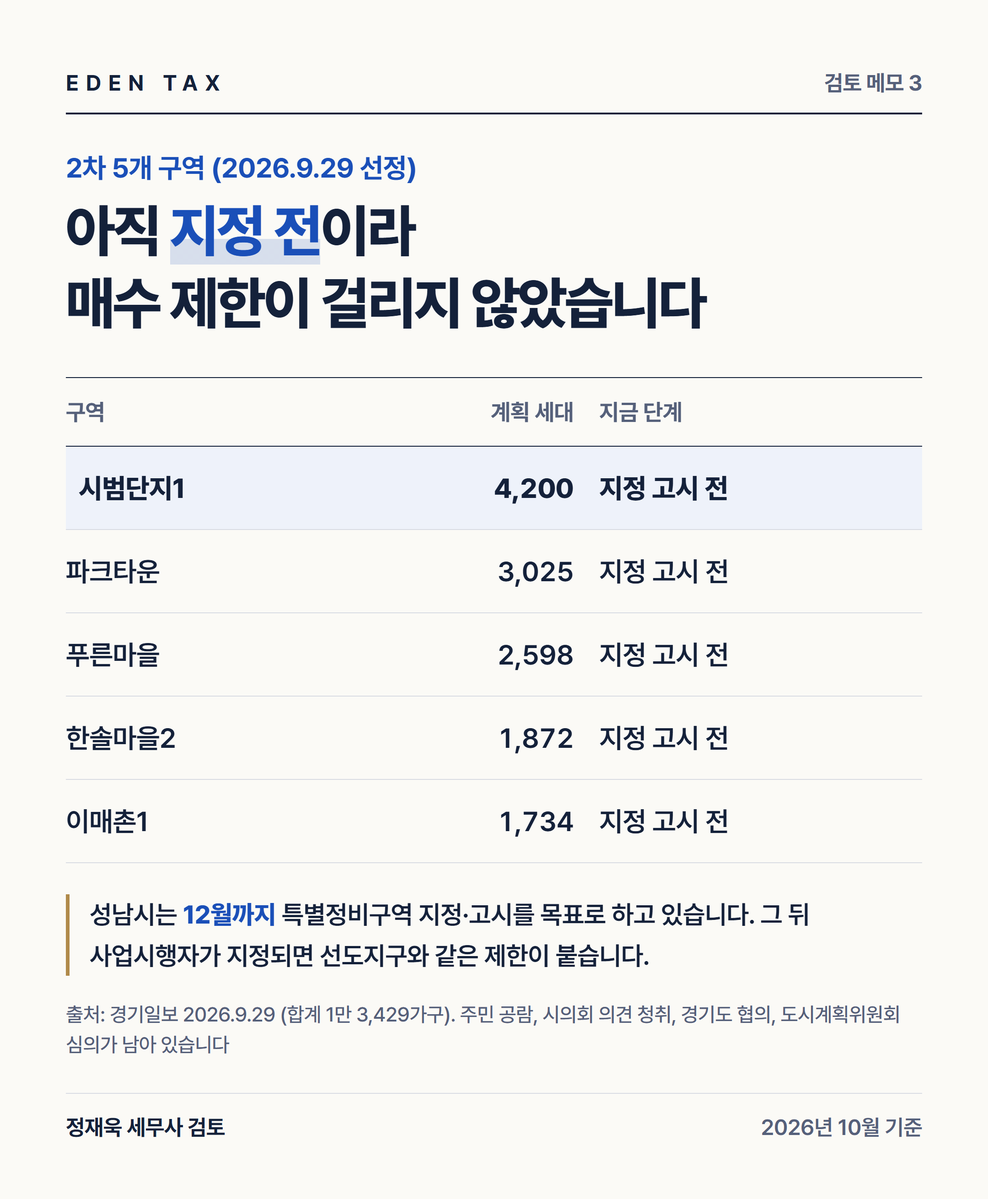
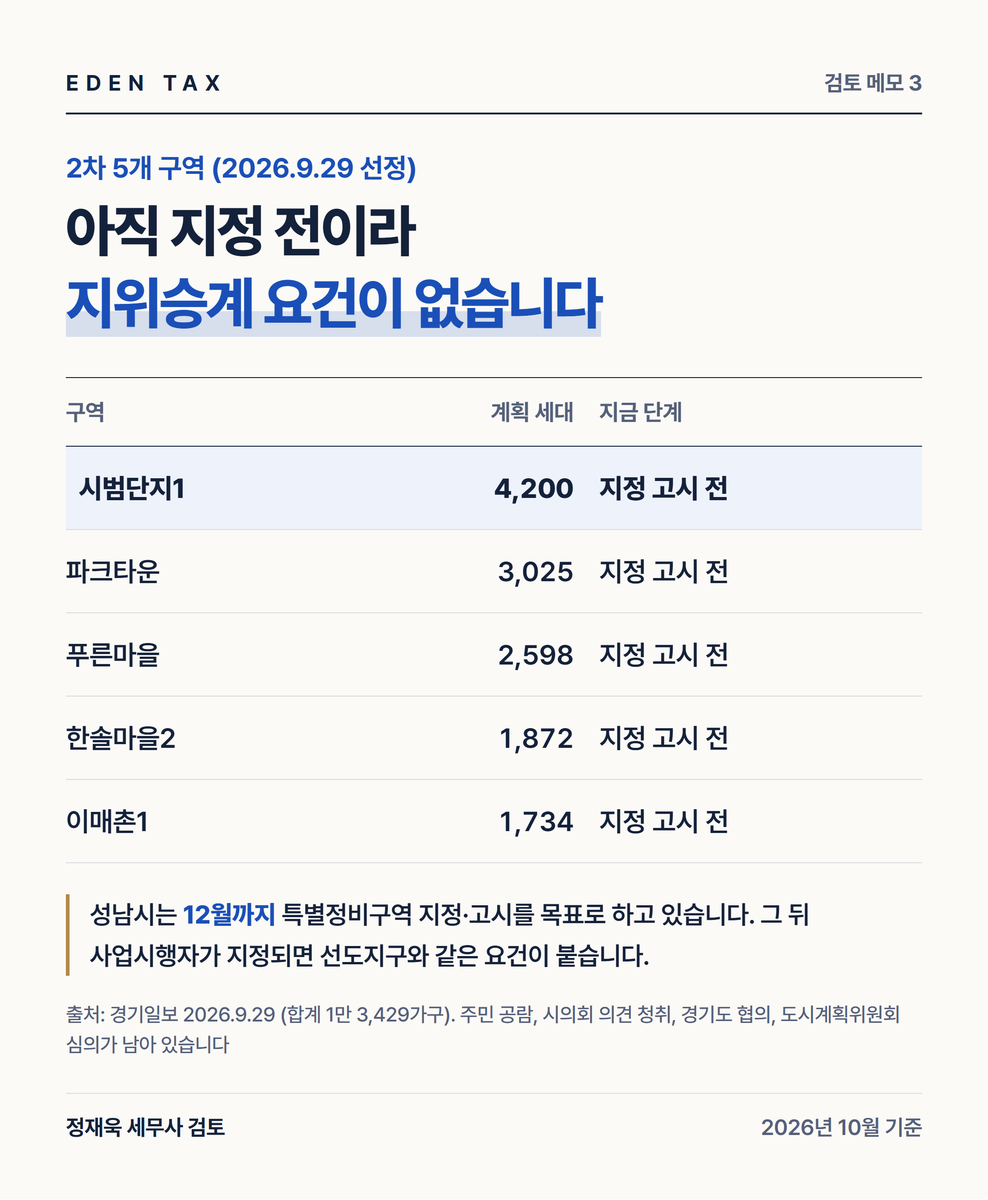
분당 칼럼 제목·틀 수정 (지위승계 확인 포인트)
'매수 시 조합원 불가/가능' 표기를 '매물 확인: 지위승계 요건 확인/요건 없음'으로
바꾸고, 예외 요건을 갖춘 매물이 실제로 거래된다는 점을 본문에 명시.
썸네일·제목도 '분당 9개 구역, 지금 어디까지 왔나'로 교체.

Changed region(s): [[0.062, 0.1545, 0.7134, 0.278], [0.4963, 0.7723, 0.5273, 0.8032]]

diff --git a/column/bundang-reconstruction-overview/index.html b/column/bundang-reconstruction-overview/index.html
@@ -3,19 +3,19 @@
 <head>
   <meta charset="UTF-8">
   <meta name="viewport" content="width=device-width, initial-scale=1.0">
-  <title>분당 재건축 단지 총정리: 선도지구 4곳과 2차 5곳, 매수 전에 확인할 날짜 (2026년 10월) | 에덴택스 칼럼</title>
-  <meta name="description" content="분당 선도지구 4곳(시범단지·샛별마을·목련마을·양지마을)과 2026년 9월 선정된 2차 5개 구역의 진행 단계와 세대수를 정리하고, 사업시행자 지정 고시일을 기준으로 조합원 지위가 넘어가는지 갈리는 구조와 취득세·양도세를 함께 봤습니다.">
+  <title>분당 재건축 단지 총정리: 선도지구 4곳과 2차 5곳, 구역별 단계와 지위승계 확인 포인트 (2026년 10월) | 에덴택스 칼럼</title>
+  <meta name="description" content="분당 선도지구 4곳(시범단지·샛별마을·목련마을·양지마을)과 2026년 9월 선정된 2차 5개 구역의 진행 단계와 세대수를 한 표로 정리하고, 사업시행자 지정이 끝난 구역에서 조합원 지위가 승계되는 매물인지 확인하는 순서와 취득세·양도세를 함께 봤습니다.">
   <link rel="canonical" href="https://www.edentax.kr/column/bundang-reconstruction-overview/">
   <meta property="og:type" content="article">
-  <meta property="og:title" content="분당 재건축 단지 총정리: 선도지구 4곳과 2차 5곳, 매수 전에 확인할 날짜 (2026년 10월) | 에덴택스 칼럼">
-  <meta property="og:description" content="분당 선도지구 4곳(시범단지·샛별마을·목련마을·양지마을)과 2026년 9월 선정된 2차 5개 구역의 진행 단계와 세대수를 정리하고, 사업시행자 지정 고시일을 기준으로 조합원 지위가 넘어가는지 갈리는 구조와 취득세·양도세를 함께 봤습니다.">
+  <meta property="og:title" content="분당 재건축 단지 총정리: 선도지구 4곳과 2차 5곳, 구역별 단계와 지위승계 확인 포인트 (2026년 10월) | 에덴택스 칼럼">
+  <meta property="og:description" content="분당 선도지구 4곳(시범단지·샛별마을·목련마을·양지마을)과 2026년 9월 선정된 2차 5개 구역의 진행 단계와 세대수를 한 표로 정리하고, 사업시행자 지정이 끝난 구역에서 조합원 지위가 승계되는 매물인지 확인하는 순서와 취득세·양도세를 함께 봤습니다.">
   <meta property="og:url" content="https://www.edentax.kr/column/bundang-reconstruction-overview/">
   <meta property="og:image" content="https://www.edentax.kr/column/bundang-reconstruction-overview/thumbnail.png">
   <meta name="theme-color" content="#0F1B33">
   <link rel="preconnect" href="https://cdn.jsdelivr.net">
   <link rel="stylesheet" href="https://cdn.jsdelivr.net/gh/orioncactus/pretendard@v1.3.9/dist/web/variable/pretendardvariable-dynamic-subset.min.css">
   <link rel="stylesheet" href="/assets/site.css?v=20261026b">
-  <script type="application/ld+json">[{"@context": "https://schema.org", "@type": "Article", "headline": "분당 재건축 단지 총정리: 선도지구 4곳과 2차 5곳, 매수 전에 확인할 날짜 (2026년 10월)", "description": "분당 선도지구 4곳(시범단지·샛별마을·목련마을·양지마을)과 2026년 9월 선정된 2차 5개 구역의 진행 단계와 세대수를 정리하고, 사업시행자 지정 고시일을 기준으로 조합원 지위가 넘어가는지 갈리는 구조와 취득세·양도세를 함께 봤습니다.", "datePublished": "2026-10-28", "dateModified": "2026-10-28", "image": "https://www.edentax.kr/column/bundang-reconstruction-overview/thumbnail.png", "author": {"@type": "Person", "name": "정재욱 세무사", "jobTitle": "세무사", "description": "국세청 출신 세무사"}, "publisher": {"@type": "Organization", "name": "에덴택스", "url": "https://www.edentax.kr"}, "mainEntityOfPage": "https://www.edentax.kr/column/bundang-reconstruction-overview/"}, {"@context": "https://schema.org", "@type": "FAQPage", "mainEntity": [{"@type": "Question", "name": "분당 선도지구 아파트를 지금 사면 재건축 조합원이 되나요?", "acceptedAnswer": {"@type": "Answer", "text": "원칙적으로 되지 않습니다. 분당은 투기과열지구이고 선도지구 4곳은 2026년 6~7월에 사업시행자 지정이 고시됐습니다. 도시정비법 제39조 제2항은 투기과열지구 재건축사업에서 조합설립인가(신탁업자나 LH가 사업시행자인 경우에는 그 지정) 후 건축물이나 토지를 양수한 사람은 조합원이 될 수 없다고 정합니다. 조합원이 되지 못하면 현금청산 대상이 됩니다."}}, {"@type": "Question", "name": "예외는 없나요?", "acceptedAnswer": {"@type": "Answer", "text": "있습니다. 상속·이혼으로 인한 양도, 세대원 전원의 근무·취학·질병치료·결혼에 따른 이전, 세대원 전원 해외 이주, 그리고 1세대 1주택자로서 양도하는 주택의 소유기간 10년·거주기간 5년 이상인 경우 등입니다(같은 조 제2항 단서, 시행령 제37조). 양도인이 요건을 갖춰야 하므로 매수 전에 확인해야 합니다."}}, {"@type": "Question", "name": "2차 5개 구역은 지금 사도 되나요?", "acceptedAnswer": {"@type": "Answer", "text": "2026년 10월 현재 특별정비구역 지정 고시 전이라 조합원 지위 제한은 아직 붙지 않았습니다. 다만 성남시는 12월까지 지정·고시를 목표로 하고 있고, 이후 사업시행자가 지정되면 선도지구와 같은 제한이 적용됩니다. 분당은 토지거래허가구역이기도 해서 매수 시 실거주 의무가 따릅니다."}}]}]</script>
+  <script type="application/ld+json">[{"@context": "https://schema.org", "@type": "Article", "headline": "분당 재건축 단지 총정리: 선도지구 4곳과 2차 5곳, 구역별 단계와 지위승계 확인 포인트 (2026년 10월)", "description": "분당 선도지구 4곳(시범단지·샛별마을·목련마을·양지마을)과 2026년 9월 선정된 2차 5개 구역의 진행 단계와 세대수를 한 표로 정리하고, 사업시행자 지정이 끝난 구역에서 조합원 지위가 승계되는 매물인지 확인하는 순서와 취득세·양도세를 함께 봤습니다.", "datePublished": "2026-10-28", "dateModified": "2026-10-28", "image": "https://www.edentax.kr/column/bundang-reconstruction-overview/thumbnail.png", "author": {"@type": "Person", "name": "정재욱 세무사", "jobTitle": "세무사", "description": "국세청 출신 세무사"}, "publisher": {"@type": "Organization", "name": "에덴택스", "url": "https://www.edentax.kr"}, "mainEntityOfPage": "https://www.edentax.kr/column/bundang-reconstruction-overview/"}, {"@context": "https://schema.org", "@type": "FAQPage", "mainEntity": [{"@type": "Question", "name": "분당 선도지구 아파트를 사면 재건축 조합원이 되나요?", "acceptedAnswer": {"@type": "Answer", "text": "매물에 따라 다릅니다. 분당은 투기과열지구이고 선도지구 4곳은 2026년 6~7월에 사업시행자 지정이 고시됐습니다. 도시정비법 제39조 제2항은 그 시점 뒤에 양수한 사람은 원칙적으로 조합원이 될 수 없다고 하면서, 양도인이 같은 항 단서에 해당하면 양수인이 조합원 지위를 이어받는다고 정합니다. 그래서 현장에서는 이 요건을 갖춘 매물이 따로 거래됩니다."}}, {"@type": "Question", "name": "지위가 승계되는 매물인지 어떻게 확인하나요?", "acceptedAnswer": {"@type": "Answer", "text": "요건을 갖춰야 하는 쪽은 매도인입니다. 가장 흔한 경우가 1세대 1주택자로서 양도하는 주택의 소유기간 10년·거주기간 5년 이상인 매물입니다(시행령 제37조 제1항). 거주기간은 주민등록표로 따지고 배우자나 직계존비속이 산 기간을 합산합니다. 등기부에는 거주기간이 나오지 않으므로 주민등록초본으로 확인하고, 승계되지 않으면 계약을 해제할 수 있다는 특약을 두는 것이 안전합니다."}}, {"@type": "Question", "name": "2차 5개 구역은 지금 사도 되나요?", "acceptedAnswer": {"@type": "Answer", "text": "2026년 10월 현재 특별정비구역 지정 고시 전이라 조합원 지위 제한은 아직 붙지 않았습니다. 다만 성남시는 12월까지 지정·고시를 목표로 하고 있고, 이후 사업시행자가 지정되면 선도지구와 같은 제한이 적용됩니다. 분당은 토지거래허가구역이기도 해서 매수 시 실거주 의무가 따릅니다."}}]}]</script>
 </head>
 <body data-nav="column">
 <!-- LAYOUT:HEADER -->
@@ -96,7 +96,7 @@
   <div class="wrap article-hero-inner">
     <nav class="crumbs" aria-label="현재 위치"><a href="/">홈</a><svg class="ic ic-xs"><use href="#i-chevron-right"/></svg><a href="/column/">칼럼</a><svg class="ic ic-xs"><use href="#i-chevron-right"/></svg><span aria-current="page">부동산</span></nav>
     <span class="col-cat col-cat-dark" data-anim="up">부동산</span>
-    <h1 data-anim="up" data-delay="1">분당 재건축 단지 총정리: 선도지구 4곳과 2차 5곳, 매수 전에 확인할 날짜 (2026년 10월)</h1>
+    <h1 data-anim="up" data-delay="1">분당 재건축 단지 총정리: 선도지구 4곳과 2차 5곳, 구역별 단계와 지위승계 확인 포인트 (2026년 10월)</h1>
     <div class="article-meta" data-anim="up" data-delay="2">
       <img src="/images/person.webp?v=20261026b" alt="" width="44" height="44">
       <span><strong>국세청 출신 정재욱 세무사</strong><small><time datetime="2026-10-28">2026.10.28</time> · 2026년 10월 기준</small></span>
@@ -107,9 +107,9 @@
 <section class="article-wrap">
   <div class="wrap article-grid">
     <article class="article">
-      <div class="summary-box" data-anim="up"><p class="summary-title"><svg class="ic"><use href="#i-list-checks"/></svg>핵심 요약</p><ul><li><svg class="ic ic-sm"><use href="#i-check"/></svg><span>선도지구 4곳 모두 2026년 6~7월 사업시행자 지정 고시 완료</span></li><li><svg class="ic ic-sm"><use href="#i-check"/></svg><span>투기과열지구에서는 그 고시일 뒤 매수하면 원칙적으로 조합원이 될 수 없음(도시정비법 제39조 제2항)</span></li><li><svg class="ic ic-sm"><use href="#i-check"/></svg><span>예외는 1세대 1주택자의 10년 보유·5년 거주 등 법에 적힌 경우로 한정</span></li><li><svg class="ic ic-sm"><use href="#i-check"/></svg><span>2차 5개 구역 1만 3,429가구는 2026년 10월 현재 지정 고시 전</span></li><li><svg class="ic ic-sm"><use href="#i-check"/></svg><span>성남 분당구는 2025년 10월 16일부터 투기과열지구·조정대상지역, 토지거래허가구역</span></li></ul></div>
+      <div class="summary-box" data-anim="up"><p class="summary-title"><svg class="ic"><use href="#i-list-checks"/></svg>핵심 요약</p><ul><li><svg class="ic ic-sm"><use href="#i-check"/></svg><span>선도지구 4곳 모두 2026년 6~7월 사업시행자 지정 고시 완료</span></li><li><svg class="ic ic-sm"><use href="#i-check"/></svg><span>그 뒤 매수는 양도인이 법에 적힌 요건을 갖춘 매물이라야 조합원 지위가 승계됨(도시정비법 제39조 제2항)</span></li><li><svg class="ic ic-sm"><use href="#i-check"/></svg><span>가장 흔한 요건은 1세대 1주택자의 소유 10년·거주 5년(시행령 제37조) — 거주기간은 등기부에 나오지 않음</span></li><li><svg class="ic ic-sm"><use href="#i-check"/></svg><span>2차 5개 구역 1만 3,429가구는 2026년 10월 현재 지정 고시 전이라 이 요건이 없음</span></li><li><svg class="ic ic-sm"><use href="#i-check"/></svg><span>성남 분당구는 2025년 10월 16일부터 투기과열지구·조정대상지역, 아파트는 토지거래허가 대상</span></li></ul></div>
       <div class="article-body">
-<p>분당 재건축은 2024년 11월 선도지구 선정으로 시작해 2026년 7월에 네 곳 모두 사업시행자 지정을 마쳤습니다. 2026년 9월에는 2차 다섯 곳이 추가로 뽑혔습니다. 같은 '분당 아파트'라도 구역마다 단계가 다르고, 단계가 다르면 사고팔 때의 결과도 달라집니다. 아홉 개 구역을 한 표에 놓고 보겠습니다. (2026년 10월 28일 기준, 세대수와 일정은 성남시 고시 관련 보도 기준)</p>
+<p>분당 재건축은 2024년 11월 선도지구 선정으로 시작해 2026년 7월에 네 곳 모두 사업시행자 지정을 마쳤습니다. 2026년 9월에는 2차 다섯 곳이 추가로 뽑혔습니다. 같은 '분당 아파트'라도 구역마다 단계가 다르고, 단계가 다르면 매물을 볼 때 확인할 것도 달라집니다. 아홉 개 구역을 한 표에 놓고 보겠습니다. (2026년 10월 28일 기준, 세대수와 일정은 성남시 고시 관련 보도 기준)</p>
 <h2>아홉 개 구역, 지금 어디에 있나</h2>
 <div class="table-wrap"><table>
 <thead>
@@ -118,7 +118,7 @@
 <th>단지</th>
 <th>계획 세대</th>
 <th>지금 단계</th>
-<th>매수 시 조합원</th>
+<th>매물 확인</th>
 </tr>
 </thead>
 <tbody>
@@ -127,73 +127,73 @@
 <td>라이프·동성·우방·삼부 + 빌라</td>
 <td>—</td>
 <td>사업시행자 지정(2026.6.26)</td>
-<td><strong>불가</strong></td>
+<td>지위승계 요건 확인</td>
 </tr>
 <tr>
 <td>시범단지(23·S6)</td>
 <td>현대·우성 + 빌라</td>
 <td>—</td>
 <td>사업시행자 지정(2026.6.29)</td>
-<td><strong>불가</strong></td>
+<td>지위승계 요건 확인</td>
 </tr>
 <tr>
 <td>목련마을(6·S3)</td>
 <td>빌라 결합</td>
 <td>2,475</td>
 <td>사업시행자 지정(2026.6.29)</td>
-<td><strong>불가</strong></td>
+<td>지위승계 요건 확인</td>
 </tr>
 <tr>
 <td>양지마을(32)</td>
 <td>금호1·3, 한양1·2, 청구2</td>
 <td>6,839</td>
 <td>사업시행자 지정(2026.7.27)</td>
-<td><strong>불가</strong></td>
+<td>지위승계 요건 확인</td>
 </tr>
 <tr>
 <td>시범단지1</td>
 <td>—</td>
 <td>4,200</td>
 <td>2차 선정, 지정 고시 전</td>
-<td>가능</td>
+<td>요건 없음</td>
 </tr>
 <tr>
 <td>파크타운</td>
 <td>—</td>
 <td>3,025</td>
 <td>2차 선정, 지정 고시 전</td>
-<td>가능</td>
+<td>요건 없음</td>
 </tr>
 <tr>
 <td>푸른마을</td>
 <td>—</td>
 <td>2,598</td>
 <td>2차 선정, 지정 고시 전</td>
-<td>가능</td>
+<td>요건 없음</td>
 </tr>
 <tr>
 <td>한솔마을2</td>
 <td>—</td>
 <td>1,872</td>
 <td>2차 선정, 지정 고시 전</td>
-<td>가능</td>
+<td>요건 없음</td>
 </tr>
 <tr>
 <td>이매촌1</td>
 <td>—</td>
 <td>1,734</td>
 <td>2차 선정, 지정 고시 전</td>
-<td>가능</td>
+<td>요건 없음</td>
 </tr>
 </tbody>
 </table></div>
 <p>선도지구 가운데 시범·샛별·목련 세 곳은 기존 7,663세대가 1만 3,574세대로 늘어납니다. 구역별로 쪼갠 세대수는 보도마다 달라 비워 두었습니다. 2차 다섯 곳은 합쳐서 1만 3,429가구이고, 성남시는 12월까지 특별정비구역 지정·고시를 목표로 하고 있습니다.</p>
-<p>표의 '매수 시 조합원' 칸이 이 글의 핵심입니다.</p>
-<h2>왜 선도지구 네 곳은 '불가'인가</h2>
+<p>표의 '매물 확인' 칸이 이 글에서 짚으려는 부분입니다.</p>
+<h2>선도지구 네 곳은 왜 요건을 따로 보는가</h2>
 <p><img loading="lazy" alt="분당 재건축이 지나온 자리" src="summary_1.png" /></p>
 <p>분당구는 2025년 10월 16일부터 투기과열지구입니다. 투기과열지구에서 재건축사업을 할 때 <strong>조합설립인가 후</strong>에 그 구역의 건축물이나 토지를 양수한 사람은 조합원이 될 수 없습니다(도시 및 주거환경정비법 제39조 제2항).</p>
 <p>분당 선도지구는 조합을 만들지 않았습니다. 샛별마을·시범단지·양지마을은 신탁사가, 목련마을은 LH가 사업시행자입니다. 이런 경우에는 조합설립인가 대신 <strong>사업시행자 지정</strong>이 기준 시점이 됩니다(같은 조 제1항). 성남시도 사업시행자 지정을 고시하면서 "고시 이후 건축물이나 토지를 취득한 사람은 분양신청을 할 수 있는 조합원 자격을 가질 수 없다"고 안내했습니다.</p>
-<p>조합원이 되지 못하면 분양신청을 할 수 없고 현금청산 대상이 됩니다. 사업시행자가 손실보상을 하지만(같은 조 제3항), 새 아파트를 받으려고 산 사람에게는 결과가 전혀 다릅니다.</p>
+<p>다만 같은 항 단서에 예외가 있어, 양도인이 거기 해당하면 양수인이 조합원 지위를 그대로 이어받습니다. 현장에서 거래되는 선도지구 매물은 대부분 이 요건을 갖춘 것들입니다. 반대로 요건을 못 갖춘 매물을 사면 분양신청을 할 수 없고 현금청산 대상이 됩니다(같은 조 제3항).</p>
 <p><img loading="lazy" alt="선도지구 4곳" src="summary_2.png" /></p>
 <h2>예외는 파는 사람이 갖춰야 합니다</h2>
 <p>여기서 가장 많이 어긋나는 지점입니다. 예외 요건을 갖춰야 하는 쪽은 매수인이 아니라 <strong>양도인</strong>입니다. 법은 "양도인이 다음 각 호의 어느 하나에 해당하는 경우 그 양도인으로부터 양수한 자는 그러하지 아니하다"고 적고 있습니다.</p>
@@ -206,24 +206,24 @@
 <li><strong>투기과열지구 지정 전에 계약했는가.</strong> 지정일부터 60일 안에 부동산 거래신고를 마친 경우입니다(시행령 제37조 제3항 제6호). 분당은 2025년 10월 16일에 지정됐으니 지금 새로 사는 경우에는 해당하지 않습니다.</li>
 </ol>
 <p>등기부에는 거주기간이 나오지 않습니다. 주민등록초본과 보유기간을 서류로 확인하고, 조합원 지위가 승계되지 않으면 계약을 해제할 수 있다는 내용을 특약에 넣어 두는 편이 안전합니다.</p>
-<h2>2차 다섯 곳은 아직 열려 있습니다</h2>
+<h2>2차 다섯 곳은 아직 이 요건이 없습니다</h2>
 <p><img loading="lazy" alt="2차 5개 구역" src="summary_3.png" /></p>
-<p>2026년 10월 현재 2차 다섯 곳은 특별정비구역 지정 고시 전이라 이 제한이 붙지 않았습니다. 다만 주민 공람과 공고, 시의회 의견 청취, 경기도 협의, 도시계획위원회 심의가 남아 있고 성남시는 12월까지 고시를 목표로 하고 있습니다. 고시 뒤 사업시행자가 지정되면 선도지구와 같은 상태가 됩니다.</p>
+<p>2026년 10월 현재 2차 다섯 곳은 특별정비구역 지정 고시 전이라 이 요건이 붙지 않았습니다. 다만 주민 공람과 공고, 시의회 의견 청취, 경기도 협의, 도시계획위원회 심의가 남아 있고 성남시는 12월까지 고시를 목표로 하고 있습니다. 고시 뒤 사업시행자가 지정되면 선도지구와 같은 상태가 됩니다.</p>
 <p>지금 사는 경우에도 분당구 아파트는 토지거래허가구역입니다(2025년 10월 20일부터 허가 의무). 계약 전에 허가를 받아야 하고 실거주 의무가 따릅니다. 전세를 끼고 사는 방식은 쓸 수 없습니다.</p>
 <h2>세금은 날짜로 갈립니다</h2>
 <p>취득세는 분당구가 조정대상지역이라 2주택이 되면 8%, 3주택 이상이면 12%가 원칙입니다(지방세법 제13조의2).</p>
 <p>양도세에서는 기존 집과 새로 산 집이 모두 조정대상지역이면 일시적 2주택 처분기한이 2년입니다(소득세법 시행령 제155조 제1항 제1호). 2026년 10월 1일부터 적용되고 있어, 서울에서 분당으로 갈아타는 경우가 여기에 들어갑니다.</p>
 <p>관리처분계획인가가 나면 보유하던 주택은 입주권으로 바뀝니다. 비과세 판단과 장기보유특별공제가 그 앞뒤로 달라집니다. 선도지구 네 곳은 2028년 상반기 관리처분이 예정돼 있으므로, 그 전에 팔 것인지 입주권으로 넘길 것인지를 미리 계산해 두셔야 합니다.</p>
-<h2>사시기 전에 매도인 서류부터</h2>
+<h2>매물 설명서보다 매도인 서류를</h2>
 <blockquote>
-<p>분당은 단지별로 날짜가 다릅니다. 같은 분당 아파트라도 사업시행자 지정이 끝난 구역과 아직 지정 전인 구역은 성격이 전혀 다른 물건입니다. 선도지구 네 곳을 보고 계시다면 매도인의 보유기간과 거주기간을 먼저 확인하시고, 2차 구역을 보고 계시다면 고시 일정과 토지거래허가 실거주 의무를 자금 계획에 넣어 두시기 바랍니다. 계약서를 쓰고 나서 바꾸기 어려운 부분입니다.</p>
+<p>분당은 구역마다 날짜가 다릅니다. 중개사무소에서 지위승계가 되는 매물을 추려 주더라도, 요건을 채워야 하는 쪽은 파는 분이고 확인은 서류로 남겨야 합니다. 선도지구 네 곳을 보고 계시다면 매도인의 보유기간과 거주기간을 주민등록초본으로 확인하시고, 2차 구역을 보고 계시다면 고시 일정과 토지거래허가 실거주 의무를 자금 계획에 넣어 두시기 바랍니다. 계약서를 쓰고 나서 바꾸기 어려운 부분입니다.</p>
 <p>— 정재욱 세무사</p>
 </blockquote>
 <p>에덴택스는 국세청 출신 세무사가 양도·상속·증여·취득까지 부동산 세금을 직접 봅니다. 보유 주택 현황, 매수 예정 단지의 구역 정보, 자금 계획을 가지고 오시면 취득세와 기존 집 처분 순서, 입주권 전환 시점까지 함께 검토해 드립니다.</p>
 <p>※ 2026년 10월 28일 현재 도시 및 주거환경정비법·같은 법 시행령, 지방세법, 소득세법 시행령 원문과 국토교통부 10·15 주택시장 안정화 대책, 성남시 고시 관련 언론 보도를 기준으로 작성했습니다. 구역별 세대수와 일정은 보도 기준이며 확정 수치는 성남시 고시문으로 확인해야 합니다.</p>
 <p>※ 본 글은 세무·부동산 분석을 위한 참고자료로, 개별 세무상담이나 신고 검토를 대체하지 않으며 투자·청약을 권유하지 않습니다. 세금 신고 및 투자 결정 전 전문가의 검토를 받으시기 바라며, 이를 활용한 판단과 결과의 책임은 이용자에게 있습니다.</p>
       </div>
-      <section class="faq"><h2>자주 묻는 질문</h2><details><summary>분당 선도지구 아파트를 지금 사면 재건축 조합원이 되나요?<svg class="ic ic-sm"><use href="#i-plus"/></svg></summary><p>원칙적으로 되지 않습니다. 분당은 투기과열지구이고 선도지구 4곳은 2026년 6~7월에 사업시행자 지정이 고시됐습니다. 도시정비법 제39조 제2항은 투기과열지구 재건축사업에서 조합설립인가(신탁업자나 LH가 사업시행자인 경우에는 그 지정) 후 건축물이나 토지를 양수한 사람은 조합원이 될 수 없다고 정합니다. 조합원이 되지 못하면 현금청산 대상이 됩니다.</p></details><details><summary>예외는 없나요?<svg class="ic ic-sm"><use href="#i-plus"/></svg></summary><p>있습니다. 상속·이혼으로 인한 양도, 세대원 전원의 근무·취학·질병치료·결혼에 따른 이전, 세대원 전원 해외 이주, 그리고 1세대 1주택자로서 양도하는 주택의 소유기간 10년·거주기간 5년 이상인 경우 등입니다(같은 조 제2항 단서, 시행령 제37조). 양도인이 요건을 갖춰야 하므로 매수 전에 확인해야 합니다.</p></details><details><summary>2차 5개 구역은 지금 사도 되나요?<svg class="ic ic-sm"><use href="#i-plus"/></svg></summary><p>2026년 10월 현재 특별정비구역 지정 고시 전이라 조합원 지위 제한은 아직 붙지 않았습니다. 다만 성남시는 12월까지 지정·고시를 목표로 하고 있고, 이후 사업시행자가 지정되면 선도지구와 같은 제한이 적용됩니다. 분당은 토지거래허가구역이기도 해서 매수 시 실거주 의무가 따릅니다.</p></details></section>
+      <section class="faq"><h2>자주 묻는 질문</h2><details><summary>분당 선도지구 아파트를 사면 재건축 조합원이 되나요?<svg class="ic ic-sm"><use href="#i-plus"/></svg></summary><p>매물에 따라 다릅니다. 분당은 투기과열지구이고 선도지구 4곳은 2026년 6~7월에 사업시행자 지정이 고시됐습니다. 도시정비법 제39조 제2항은 그 시점 뒤에 양수한 사람은 원칙적으로 조합원이 될 수 없다고 하면서, 양도인이 같은 항 단서에 해당하면 양수인이 조합원 지위를 이어받는다고 정합니다. 그래서 현장에서는 이 요건을 갖춘 매물이 따로 거래됩니다.</p></details><details><summary>지위가 승계되는 매물인지 어떻게 확인하나요?<svg class="ic ic-sm"><use href="#i-plus"/></svg></summary><p>요건을 갖춰야 하는 쪽은 매도인입니다. 가장 흔한 경우가 1세대 1주택자로서 양도하는 주택의 소유기간 10년·거주기간 5년 이상인 매물입니다(시행령 제37조 제1항). 거주기간은 주민등록표로 따지고 배우자나 직계존비속이 산 기간을 합산합니다. 등기부에는 거주기간이 나오지 않으므로 주민등록초본으로 확인하고, 승계되지 않으면 계약을 해제할 수 있다는 특약을 두는 것이 안전합니다.</p></details><details><summary>2차 5개 구역은 지금 사도 되나요?<svg class="ic ic-sm"><use href="#i-plus"/></svg></summary><p>2026년 10월 현재 특별정비구역 지정 고시 전이라 조합원 지위 제한은 아직 붙지 않았습니다. 다만 성남시는 12월까지 지정·고시를 목표로 하고 있고, 이후 사업시행자가 지정되면 선도지구와 같은 제한이 적용됩니다. 분당은 토지거래허가구역이기도 해서 매수 시 실거주 의무가 따릅니다.</p></details></section>
       <div class="article-banner">
         <img src="banner.png" alt="에덴택스 상담 안내 - 국세청 출신 정재욱 세무사, 전화 010-4892-0921, 카카오톡 edentax" loading="lazy">
         <div class="article-banner-links">

diff --git a/column/dh-banpo-124-score-lottery/index.html b/column/dh-banpo-124-score-lottery/index.html
@@ -250,11 +250,11 @@
     <div class="sec-head sec-head-row"><div><p class="kicker">MORE</p><h2>다른 칼럼</h2></div><a class="link-more" href="/column/">칼럼 전체 보기<svg class="ic ic-sm"><use href="#i-arrow-right"/></svg></a></div>
     <div class="col-tiles">
 <a class="col-card col-tile" href="/column/bundang-reconstruction-overview/" data-anim="up" data-cat="부동산">
-  <div class="col-thumb"><img src="/column/bundang-reconstruction-overview/thumbnail.png" alt="분당 재건축 단지 총정리: 선도지구 4곳과 2차 5곳, 매수 전에 확인할 날짜 (2026년 10월)" loading="lazy" width="640" height="640"></div>
+  <div class="col-thumb"><img src="/column/bundang-reconstruction-overview/thumb.webp" alt="분당 재건축 단지 총정리: 선도지구 4곳과 2차 5곳, 구역별 단계와 지위승계 확인 포인트 (2026년 10월)" loading="lazy" width="640" height="640"></div>
   <div class="col-body">
     <span class="col-cat">부동산</span>
-    <h3>분당 재건축 단지 총정리: 선도지구 4곳과 2차 5곳, 매수 전에 확인할 날짜 (2026년 10월)</h3>
-    <p>분당 선도지구 4곳(시범단지·샛별마을·목련마을·양지마을)과 2026년 9월 선정된 2차 5개 구역의 진행 단계와 세대수를 정리하고, 사업시행자 지정 고시일을 기준으로 조합원 지위가 넘어가는지 갈리는 구조와 취득세·양도세를 함께 봤습니다.</p>
+    <h3>분당 재건축 단지 총정리: 선도지구 4곳과 2차 5곳, 구역별 단계와 지위승계 확인 포인트 (2026년 10월)</h3>
+    <p>분당 선도지구 4곳(시범단지·샛별마을·목련마을·양지마을)과 2026년 9월 선정된 2차 5개 구역의 진행 단계와 세대수를 한 표로 정리하고, 사업시행자 지정이 끝난 구역에서 조합원 지위가 승계되는 매물인지 확인하는 순서와 취득세·양도세를 함께 봤습니다.</p>
     <div class="col-foot"><time datetime="2026-10-28">2026.10.28</time><span class="go">읽어 보기<svg class="ic ic-sm"><use href="#i-arrow-right"/></svg></span></div>
   </div>
 </a>

diff --git a/column/acmer-dongtan-subscription/index.html b/column/acmer-dongtan-subscription/index.html
@@ -214,11 +214,11 @@
   </div>
 </a>
 <a class="col-card col-tile" href="/column/bundang-reconstruction-overview/" data-anim="up" data-delay="1" data-cat="부동산">
-  <div class="col-thumb"><img src="/column/bundang-reconstruction-overview/thumb.webp" alt="분당 재건축 단지 총정리: 선도지구 4곳과 2차 5곳, 매수 전에 확인할 날짜 (2026년 10월)" loading="lazy" width="640" height="640"></div>
+  <div class="col-thumb"><img src="/column/bundang-reconstruction-overview/thumb.webp" alt="분당 재건축 단지 총정리: 선도지구 4곳과 2차 5곳, 구역별 단계와 지위승계 확인 포인트 (2026년 10월)" loading="lazy" width="640" height="640"></div>
   <div class="col-body">
     <span class="col-cat">부동산</span>
-    <h3>분당 재건축 단지 총정리: 선도지구 4곳과 2차 5곳, 매수 전에 확인할 날짜 (2026년 10월)</h3>
-    <p>분당 선도지구 4곳(시범단지·샛별마을·목련마을·양지마을)과 2026년 9월 선정된 2차 5개 구역의 진행 단계와 세대수를 정리하고, 사업시행자 지정 고시일을 기준으로 조합원 지위가 넘어가는지 갈리는 구조와 취득세·양도세를 함께 봤습니다.</p>
+    <h3>분당 재건축 단지 총정리: 선도지구 4곳과 2차 5곳, 구역별 단계와 지위승계 확인 포인트 (2026년 10월)</h3>
+    <p>분당 선도지구 4곳(시범단지·샛별마을·목련마을·양지마을)과 2026년 9월 선정된 2차 5개 구역의 진행 단계와 세대수를 한 표로 정리하고, 사업시행자 지정이 끝난 구역에서 조합원 지위가 승계되는 매물인지 확인하는 순서와 취득세·양도세를 함께 봤습니다.</p>
     <div class="col-foot"><time datetime="2026-10-28">2026.10.28</time><span class="go">읽어 보기<svg class="ic ic-sm"><use href="#i-arrow-right"/></svg></span></div>
   </div>
 </a>

diff --git a/column/dh-banpo-124-subscription/index.html b/column/dh-banpo-124-subscription/index.html
@@ -263,11 +263,11 @@
   </div>
 </a>
 <a class="col-card col-tile" href="/column/bundang-reconstruction-overview/" data-anim="up" data-delay="1" data-cat="부동산">
-  <div class="col-thumb"><img src="/column/bundang-reconstruction-overview/thumb.webp" alt="분당 재건축 단지 총정리: 선도지구 4곳과 2차 5곳, 매수 전에 확인할 날짜 (2026년 10월)" loading="lazy" width="640" height="640"></div>
+  <div class="col-thumb"><img src="/column/bundang-reconstruction-overview/thumb.webp" alt="분당 재건축 단지 총정리: 선도지구 4곳과 2차 5곳, 구역별 단계와 지위승계 확인 포인트 (2026년 10월)" loading="lazy" width="640" height="640"></div>
   <div class="col-body">
     <span class="col-cat">부동산</span>
-    <h3>분당 재건축 단지 총정리: 선도지구 4곳과 2차 5곳, 매수 전에 확인할 날짜 (2026년 10월)</h3>
-    <p>분당 선도지구 4곳(시범단지·샛별마을·목련마을·양지마을)과 2026년 9월 선정된 2차 5개 구역의 진행 단계와 세대수를 정리하고, 사업시행자 지정 고시일을 기준으로 조합원 지위가 넘어가는지 갈리는 구조와 취득세·양도세를 함께 봤습니다.</p>
+    <h3>분당 재건축 단지 총정리: 선도지구 4곳과 2차 5곳, 구역별 단계와 지위승계 확인 포인트 (2026년 10월)</h3>
+    <p>분당 선도지구 4곳(시범단지·샛별마을·목련마을·양지마을)과 2026년 9월 선정된 2차 5개 구역의 진행 단계와 세대수를 한 표로 정리하고, 사업시행자 지정이 끝난 구역에서 조합원 지위가 승계되는 매물인지 확인하는 순서와 취득세·양도세를 함께 봤습니다.</p>
     <div class="col-foot"><time datetime="2026-10-28">2026.10.28</time><span class="go">읽어 보기<svg class="ic ic-sm"><use href="#i-arrow-right"/></svg></span></div>
   </div>
 </a>

diff --git a/column/funding-plan-gift-tax-filing/index.html b/column/funding-plan-gift-tax-filing/index.html
@@ -228,11 +228,11 @@
   </div>
 </a>
 <a class="col-card col-tile" href="/column/bundang-reconstruction-overview/" data-anim="up" data-delay="1" data-cat="부동산">
-  <div class="col-thumb"><img src="/column/bundang-reconstruction-overview/thumb.webp" alt="분당 재건축 단지 총정리: 선도지구 4곳과 2차 5곳, 매수 전에 확인할 날짜 (2026년 10월)" loading="lazy" width="640" height="640"></div>
+  <div class="col-thumb"><img src="/column/bundang-reconstruction-overview/thumb.webp" alt="분당 재건축 단지 총정리: 선도지구 4곳과 2차 5곳, 구역별 단계와 지위승계 확인 포인트 (2026년 10월)" loading="lazy" width="640" height="640"></div>
   <div class="col-body">
     <span class="col-cat">부동산</span>
-    <h3>분당 재건축 단지 총정리: 선도지구 4곳과 2차 5곳, 매수 전에 확인할 날짜 (2026년 10월)</h3>
-    <p>분당 선도지구 4곳(시범단지·샛별마을·목련마을·양지마을)과 2026년 9월 선정된 2차 5개 구역의 진행 단계와 세대수를 정리하고, 사업시행자 지정 고시일을 기준으로 조합원 지위가 넘어가는지 갈리는 구조와 취득세·양도세를 함께 봤습니다.</p>
+    <h3>분당 재건축 단지 총정리: 선도지구 4곳과 2차 5곳, 구역별 단계와 지위승계 확인 포인트 (2026년 10월)</h3>
+    <p>분당 선도지구 4곳(시범단지·샛별마을·목련마을·양지마을)과 2026년 9월 선정된 2차 5개 구역의 진행 단계와 세대수를 한 표로 정리하고, 사업시행자 지정이 끝난 구역에서 조합원 지위가 승계되는 매물인지 확인하는 순서와 취득세·양도세를 함께 봤습니다.</p>
     <div class="col-foot"><time datetime="2026-10-28">2026.10.28</time><span class="go">읽어 보기<svg class="ic ic-sm"><use href="#i-arrow-right"/></svg></span></div>
   </div>
 </a>

diff --git a/column/gwanggyo-centreville-subscription/index.html b/column/gwanggyo-centreville-subscription/index.html
@@ -219,11 +219,11 @@
   </div>
 </a>
 <a class="col-card col-tile" href="/column/bundang-reconstruction-overview/" data-anim="up" data-delay="1" data-cat="부동산">
-  <div class="col-thumb"><img src="/column/bundang-reconstruction-overview/thumb.webp" alt="분당 재건축 단지 총정리: 선도지구 4곳과 2차 5곳, 매수 전에 확인할 날짜 (2026년 10월)" loading="lazy" width="640" height="640"></div>
+  <div class="col-thumb"><img src="/column/bundang-reconstruction-overview/thumb.webp" alt="분당 재건축 단지 총정리: 선도지구 4곳과 2차 5곳, 구역별 단계와 지위승계 확인 포인트 (2026년 10월)" loading="lazy" width="640" height="640"></div>
   <div class="col-body">
     <span class="col-cat">부동산</span>
-    <h3>분당 재건축 단지 총정리: 선도지구 4곳과 2차 5곳, 매수 전에 확인할 날짜 (2026년 10월)</h3>
-    <p>분당 선도지구 4곳(시범단지·샛별마을·목련마을·양지마을)과 2026년 9월 선정된 2차 5개 구역의 진행 단계와 세대수를 정리하고, 사업시행자 지정 고시일을 기준으로 조합원 지위가 넘어가는지 갈리는 구조와 취득세·양도세를 함께 봤습니다.</p>
+    <h3>분당 재건축 단지 총정리: 선도지구 4곳과 2차 5곳, 구역별 단계와 지위승계 확인 포인트 (2026년 10월)</h3>
+    <p>분당 선도지구 4곳(시범단지·샛별마을·목련마을·양지마을)과 2026년 9월 선정된 2차 5개 구역의 진행 단계와 세대수를 한 표로 정리하고, 사업시행자 지정이 끝난 구역에서 조합원 지위가 승계되는 매물인지 확인하는 순서와 취득세·양도세를 함께 봤습니다.</p>
     <div class="col-foot"><time datetime="2026-10-28">2026.10.28</time><span class="go">읽어 보기<svg class="ic ic-sm"><use href="#i-arrow-right"/></svg></span></div>
   </div>
 </a>

diff --git a/column/home-purchase-funding-plan/index.html b/column/home-purchase-funding-plan/index.html
@@ -267,11 +267,11 @@
   </div>
 </a>
 <a class="col-card col-tile" href="/column/bundang-reconstruction-overview/" data-anim="up" data-delay="1" data-cat="부동산">
-  <div class="col-thumb"><img src="/column/bundang-reconstruction-overview/thumb.webp" alt="분당 재건축 단지 총정리: 선도지구 4곳과 2차 5곳, 매수 전에 확인할 날짜 (2026년 10월)" loading="lazy" width="640" height="640"></div>
+  <div class="col-thumb"><img src="/column/bundang-reconstruction-overview/thumb.webp" alt="분당 재건축 단지 총정리: 선도지구 4곳과 2차 5곳, 구역별 단계와 지위승계 확인 포인트 (2026년 10월)" loading="lazy" width="640" height="640"></div>
   <div class="col-body">
     <span class="col-cat">부동산</span>
-    <h3>분당 재건축 단지 총정리: 선도지구 4곳과 2차 5곳, 매수 전에 확인할 날짜 (2026년 10월)</h3>
-    <p>분당 선도지구 4곳(시범단지·샛별마을·목련마을·양지마을)과 2026년 9월 선정된 2차 5개 구역의 진행 단계와 세대수를 정리하고, 사업시행자 지정 고시일을 기준으로 조합원 지위가 넘어가는지 갈리는 구조와 취득세·양도세를 함께 봤습니다.</p>
+    <h3>분당 재건축 단지 총정리: 선도지구 4곳과 2차 5곳, 구역별 단계와 지위승계 확인 포인트 (2026년 10월)</h3>
+    <p>분당 선도지구 4곳(시범단지·샛별마을·목련마을·양지마을)과 2026년 9월 선정된 2차 5개 구역의 진행 단계와 세대수를 한 표로 정리하고, 사업시행자 지정이 끝난 구역에서 조합원 지위가 승계되는 매물인지 확인하는 순서와 취득세·양도세를 함께 봤습니다.</p>
     <div class="col-foot"><time datetime="2026-10-28">2026.10.28</time><span class="go">읽어 보기<svg class="ic ic-sm"><use href="#i-arrow-right"/></svg></span></div>
   </div>
 </a>

diff --git a/column/index.html b/column/index.html
@@ -115,11 +115,11 @@
   </div>
 </a>
 <a class="col-card col-tile" href="/column/bundang-reconstruction-overview/" data-anim="up" data-delay="1" data-cat="부동산">
-  <div class="col-thumb"><img src="/column/bundang-reconstruction-overview/thumb.webp" alt="분당 재건축 단지 총정리: 선도지구 4곳과 2차 5곳, 매수 전에 확인할 날짜 (2026년 10월)" loading="lazy" width="640" height="640"></div>
+  <div class="col-thumb"><img src="/column/bundang-reconstruction-overview/thumb.webp" alt="분당 재건축 단지 총정리: 선도지구 4곳과 2차 5곳, 구역별 단계와 지위승계 확인 포인트 (2026년 10월)" loading="lazy" width="640" height="640"></div>
   <div class="col-body">
     <span class="col-cat">부동산</span>
-    <h3>분당 재건축 단지 총정리: 선도지구 4곳과 2차 5곳, 매수 전에 확인할 날짜 (2026년 10월)</h3>
-    <p>분당 선도지구 4곳(시범단지·샛별마을·목련마을·양지마을)과 2026년 9월 선정된 2차 5개 구역의 진행 단계와 세대수를 정리하고, 사업시행자 지정 고시일을 기준으로 조합원 지위가 넘어가는지 갈리는 구조와 취득세·양도세를 함께 봤습니다.</p>
+    <h3>분당 재건축 단지 총정리: 선도지구 4곳과 2차 5곳, 구역별 단계와 지위승계 확인 포인트 (2026년 10월)</h3>
+    <p>분당 선도지구 4곳(시범단지·샛별마을·목련마을·양지마을)과 2026년 9월 선정된 2차 5개 구역의 진행 단계와 세대수를 한 표로 정리하고, 사업시행자 지정이 끝난 구역에서 조합원 지위가 승계되는 매물인지 확인하는 순서와 취득세·양도세를 함께 봤습니다.</p>
     <div class="col-foot"><time datetime="2026-10-28">2026.10.28</time><span class="go">읽어 보기<svg class="ic ic-sm"><use href="#i-arrow-right"/></svg></span></div>
   </div>
 </a>

diff --git a/column/jongbu-tax-joint-ownership-2027/index.html b/column/jongbu-tax-joint-ownership-2027/index.html
@@ -234,11 +234,11 @@
   </div>
 </a>
 <a class="col-card col-tile" href="/column/bundang-reconstruction-overview/" data-anim="up" data-delay="1" data-cat="부동산">
-  <div class="col-thumb"><img src="/column/bundang-reconstruction-overview/thumb.webp" alt="분당 재건축 단지 총정리: 선도지구 4곳과 2차 5곳, 매수 전에 확인할 날짜 (2026년 10월)" loading="lazy" width="640" height="640"></div>
+  <div class="col-thumb"><img src="/column/bundang-reconstruction-overview/thumb.webp" alt="분당 재건축 단지 총정리: 선도지구 4곳과 2차 5곳, 구역별 단계와 지위승계 확인 포인트 (2026년 10월)" loading="lazy" width="640" height="640"></div>
   <div class="col-body">
     <span class="col-cat">부동산</span>
-    <h3>분당 재건축 단지 총정리: 선도지구 4곳과 2차 5곳, 매수 전에 확인할 날짜 (2026년 10월)</h3>
-    <p>분당 선도지구 4곳(시범단지·샛별마을·목련마을·양지마을)과 2026년 9월 선정된 2차 5개 구역의 진행 단계와 세대수를 정리하고, 사업시행자 지정 고시일을 기준으로 조합원 지위가 넘어가는지 갈리는 구조와 취득세·양도세를 함께 봤습니다.</p>
+    <h3>분당 재건축 단지 총정리: 선도지구 4곳과 2차 5곳, 구역별 단계와 지위승계 확인 포인트 (2026년 10월)</h3>
+    <p>분당 선도지구 4곳(시범단지·샛별마을·목련마을·양지마을)과 2026년 9월 선정된 2차 5개 구역의 진행 단계와 세대수를 한 표로 정리하고, 사업시행자 지정이 끝난 구역에서 조합원 지위가 승계되는 매물인지 확인하는 순서와 취득세·양도세를 함께 봤습니다.</p>
     <div class="col-foot"><time datetime="2026-10-28">2026.10.28</time><span class="go">읽어 보기<svg class="ic ic-sm"><use href="#i-arrow-right"/></svg></span></div>
   </div>
 </a>

diff --git a/column/mu-sunwi-subscription-guide/index.html b/column/mu-sunwi-subscription-guide/index.html
@@ -214,11 +214,11 @@
   </div>
 </a>
 <a class="col-card col-tile" href="/column/bundang-reconstruction-overview/" data-anim="up" data-delay="1" data-cat="부동산">
-  <div class="col-thumb"><img src="/column/bundang-reconstruction-overview/thumb.webp" alt="분당 재건축 단지 총정리: 선도지구 4곳과 2차 5곳, 매수 전에 확인할 날짜 (2026년 10월)" loading="lazy" width="640" height="640"></div>
+  <div class="col-thumb"><img src="/column/bundang-reconstruction-overview/thumb.webp" alt="분당 재건축 단지 총정리: 선도지구 4곳과 2차 5곳, 구역별 단계와 지위승계 확인 포인트 (2026년 10월)" loading="lazy" width="640" height="640"></div>
   <div class="col-body">
     <span class="col-cat">부동산</span>
-    <h3>분당 재건축 단지 총정리: 선도지구 4곳과 2차 5곳, 매수 전에 확인할 날짜 (2026년 10월)</h3>
-    <p>분당 선도지구 4곳(시범단지·샛별마을·목련마을·양지마을)과 2026년 9월 선정된 2차 5개 구역의 진행 단계와 세대수를 정리하고, 사업시행자 지정 고시일을 기준으로 조합원 지위가 넘어가는지 갈리는 구조와 취득세·양도세를 함께 봤습니다.</p>
+    <h3>분당 재건축 단지 총정리: 선도지구 4곳과 2차 5곳, 구역별 단계와 지위승계 확인 포인트 (2026년 10월)</h3>
+    <p>분당 선도지구 4곳(시범단지·샛별마을·목련마을·양지마을)과 2026년 9월 선정된 2차 5개 구역의 진행 단계와 세대수를 한 표로 정리하고, 사업시행자 지정이 끝난 구역에서 조합원 지위가 승계되는 매물인지 확인하는 순서와 취득세·양도세를 함께 봤습니다.</p>
     <div class="col-foot"><time datetime="2026-10-28">2026.10.28</time><span class="go">읽어 보기<svg class="ic ic-sm"><use href="#i-arrow-right"/></svg></span></div>
   </div>
 </a>

diff --git a/column/redevelopment-reconstruction-terms-tax/index.html b/column/redevelopment-reconstruction-terms-tax/index.html
@@ -273,11 +273,11 @@
   </div>
 </a>
 <a class="col-card col-tile" href="/column/bundang-reconstruction-overview/" data-anim="up" data-delay="1" data-cat="부동산">
-  <div class="col-thumb"><img src="/column/bundang-reconstruction-overview/thumb.webp" alt="분당 재건축 단지 총정리: 선도지구 4곳과 2차 5곳, 매수 전에 확인할 날짜 (2026년 10월)" loading="lazy" width="640" height="640"></div>
+  <div class="col-thumb"><img src="/column/bundang-reconstruction-overview/thumb.webp" alt="분당 재건축 단지 총정리: 선도지구 4곳과 2차 5곳, 구역별 단계와 지위승계 확인 포인트 (2026년 10월)" loading="lazy" width="640" height="640"></div>
   <div class="col-body">
     <span class="col-cat">부동산</span>
-    <h3>분당 재건축 단지 총정리: 선도지구 4곳과 2차 5곳, 매수 전에 확인할 날짜 (2026년 10월)</h3>
-    <p>분당 선도지구 4곳(시범단지·샛별마을·목련마을·양지마을)과 2026년 9월 선정된 2차 5개 구역의 진행 단계와 세대수를 정리하고, 사업시행자 지정 고시일을 기준으로 조합원 지위가 넘어가는지 갈리는 구조와 취득세·양도세를 함께 봤습니다.</p>
+    <h3>분당 재건축 단지 총정리: 선도지구 4곳과 2차 5곳, 구역별 단계와 지위승계 확인 포인트 (2026년 10월)</h3>
+    <p>분당 선도지구 4곳(시범단지·샛별마을·목련마을·양지마을)과 2026년 9월 선정된 2차 5개 구역의 진행 단계와 세대수를 한 표로 정리하고, 사업시행자 지정이 끝난 구역에서 조합원 지위가 승계되는 매물인지 확인하는 순서와 취득세·양도세를 함께 봤습니다.</p>
     <div class="col-foot"><time datetime="2026-10-28">2026.10.28</time><span class="go">읽어 보기<svg class="ic ic-sm"><use href="#i-arrow-right"/></svg></span></div>
   </div>
 </a>

diff --git a/column/temporary-two-houses-2-years/index.html b/column/temporary-two-houses-2-years/index.html
@@ -222,11 +222,11 @@
   </div>
 </a>
 <a class="col-card col-tile" href="/column/bundang-reconstruction-overview/" data-anim="up" data-delay="1" data-cat="부동산">
-  <div class="col-thumb"><img src="/column/bundang-reconstruction-overview/thumb.webp" alt="분당 재건축 단지 총정리: 선도지구 4곳과 2차 5곳, 매수 전에 확인할 날짜 (2026년 10월)" loading="lazy" width="640" height="640"></div>
+  <div class="col-thumb"><img src="/column/bundang-reconstruction-overview/thumb.webp" alt="분당 재건축 단지 총정리: 선도지구 4곳과 2차 5곳, 구역별 단계와 지위승계 확인 포인트 (2026년 10월)" loading="lazy" width="640" height="640"></div>
   <div class="col-body">
     <span class="col-cat">부동산</span>
-    <h3>분당 재건축 단지 총정리: 선도지구 4곳과 2차 5곳, 매수 전에 확인할 날짜 (2026년 10월)</h3>
-    <p>분당 선도지구 4곳(시범단지·샛별마을·목련마을·양지마을)과 2026년 9월 선정된 2차 5개 구역의 진행 단계와 세대수를 정리하고, 사업시행자 지정 고시일을 기준으로 조합원 지위가 넘어가는지 갈리는 구조와 취득세·양도세를 함께 봤습니다.</p>
+    <h3>분당 재건축 단지 총정리: 선도지구 4곳과 2차 5곳, 구역별 단계와 지위승계 확인 포인트 (2026년 10월)</h3>
+    <p>분당 선도지구 4곳(시범단지·샛별마을·목련마을·양지마을)과 2026년 9월 선정된 2차 5개 구역의 진행 단계와 세대수를 한 표로 정리하고, 사업시행자 지정이 끝난 구역에서 조합원 지위가 승계되는 매물인지 확인하는 순서와 취득세·양도세를 함께 봤습니다.</p>
     <div class="col-foot"><time datetime="2026-10-28">2026.10.28</time><span class="go">읽어 보기<svg class="ic ic-sm"><use href="#i-arrow-right"/></svg></span></div>
   </div>
 </a>
